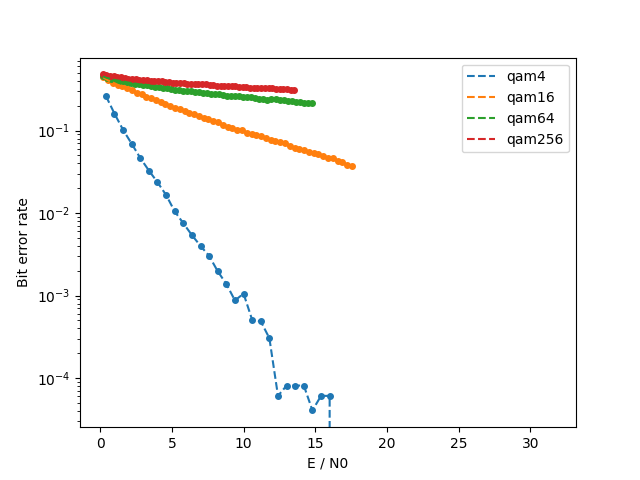
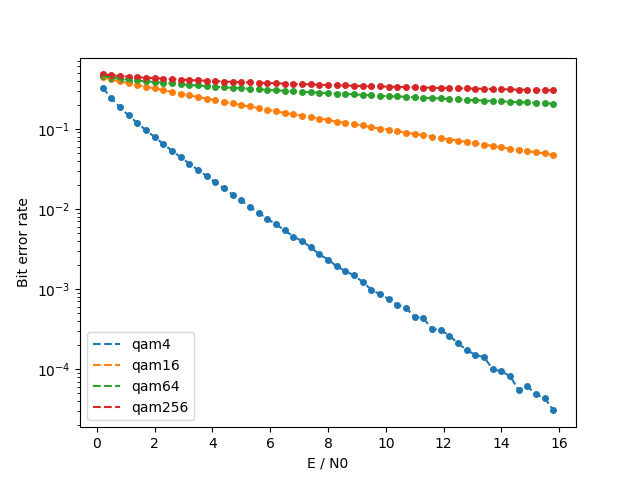
ser added

diff --git a/scripts/draw_qam.py b/scripts/draw_qam.py
@@ -19,7 +19,7 @@ def draw_plots(error_rates):
 
     # ax = plt.axis()
     # plt.axis((ax[0], ax[1], ax[3], ax[2]))
-    plt.savefig('images/qam_ber.png')
+    plt.savefig('images/qam_ser.png')
 
 
 def get_error_rates():
@@ -42,8 +42,12 @@ def get_error_rates():
             noised = encoded + \
                      np.random.normal(0., np.sqrt(n0 / 2), encoded.shape)
             decoded = modulator.decode(noised)
-            ber = (decoded != message).sum() / len(message)
-            error_rates[name].append((energy / n0, ber))
+            error_count = \
+                ((decoded != message).
+                 reshape((-1, modulator.bit_count)).
+                 sum(axis=1) != 0).sum()
+            error_rate = error_count / (len(message) / modulator.bit_count)
+            error_rates[name].append((energy / n0, error_rate))
     return error_rates
 
 
